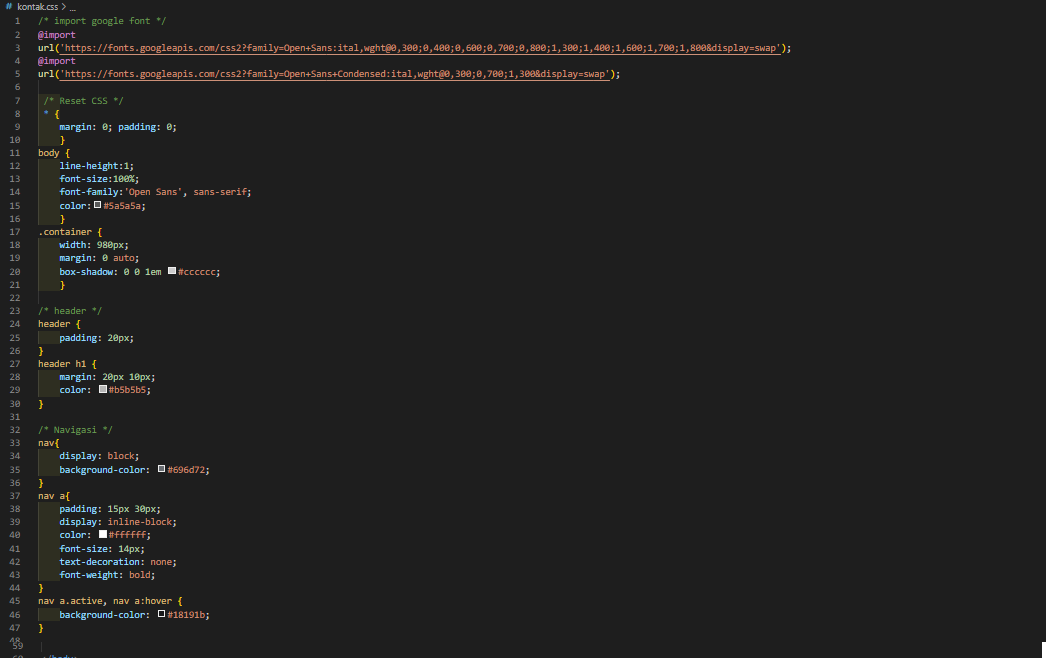
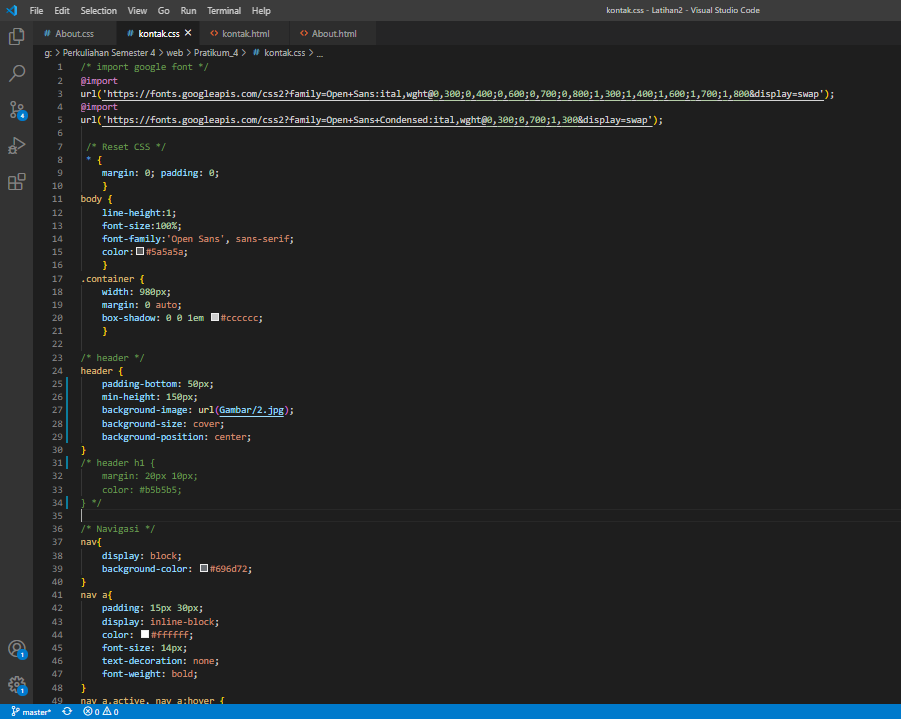
Gambar

Changed region(s): [[0.0, 0.0, 1.0, 0.4559], [0.0, 0.4559, 1.0, 1.0], [0.2797, 0.304, 0.3108, 0.3343]]

diff --git a/kontak.css b/kontak.css
@@ -22,12 +22,16 @@ body {
 
 /* header */ 
 header { 
-    padding: 20px; 
+    padding-bottom: 50px;
+    min-height: 150px;
+    background-image: url(Gambar/2.jpg);
+    background-size: cover;
+    background-position: center; 
 } 
-header h1 { 
+/* header h1 { 
     margin: 20px 10px; 
     color: #b5b5b5; 
-}
+} */
 
 /* Navigasi */
 nav{

diff --git a/About.html b/About.html
@@ -16,7 +16,7 @@
             <a href="Home.html">Home</a>
             <a href="Artikel.html">Artikel</a>
             <a href="About.html" class="active">Aboute</a>
-            <a href="Kontak">Kontak</a>
+            <a href="kontak.html">Kontak</a>
         </nav>
 
         <div class="konten">

diff --git a/kontak.html b/kontak.html
@@ -12,7 +12,7 @@
 <body>
     <div class="container">
         <header>
-            <h1>Layout Sederhana</h1>
+            <!-- <h1>Layout Sederhana</h1> -->
         </header>
         <nav>
             <a href="home.html">Home</a>
